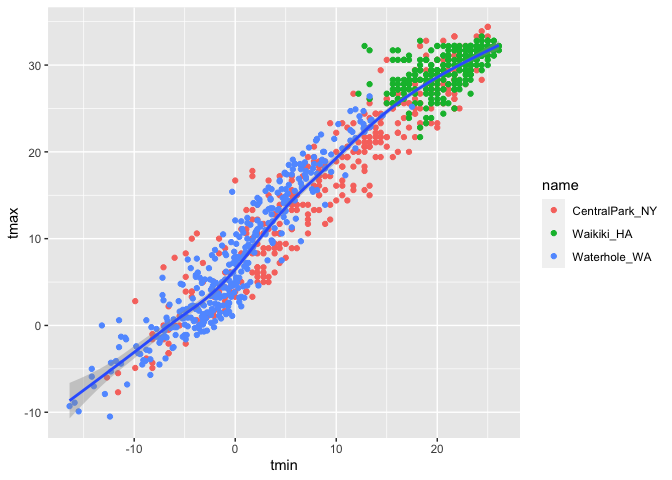
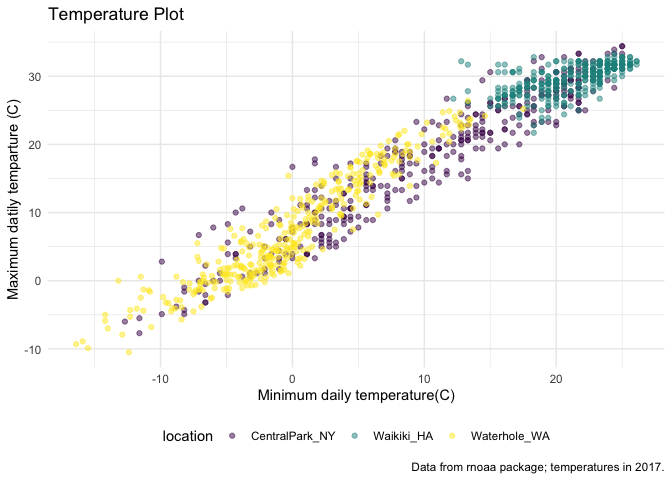
themes

diff --git a/Viz_I.md b/Viz_I.md
@@ -5,14 +5,14 @@ Visualization II
 library(tidyverse)
 ```
 
-    ## ── Attaching packages ───────────────── tidyverse 1.3.0 ──
+    ## ── Attaching packages ────────────────────────── tidyverse 1.3.0 ──
 
     ## ✓ ggplot2 3.3.2     ✓ purrr   0.3.4
     ## ✓ tibble  3.0.3     ✓ dplyr   1.0.2
     ## ✓ tidyr   1.1.2     ✓ stringr 1.4.0
     ## ✓ readr   1.3.1     ✓ forcats 0.5.0
 
-    ## ── Conflicts ──────────────────── tidyverse_conflicts() ──
+    ## ── Conflicts ───────────────────────────── tidyverse_conflicts() ──
     ## x dplyr::filter() masks stats::filter()
     ## x dplyr::lag()    masks stats::lag()
 
@@ -158,3 +158,28 @@ weather_df %>%
     ## Warning: Removed 15 rows containing missing values (geom_point).
 
 ![](Viz_I_files/figure-gfm/unnamed-chunk-6-1.png)<!-- -->
+
+## Themes
+
+Shift the legend.
+
+``` r
+weather_df %>% 
+    ggplot(aes(x = tmin, y = tmax, color=name)) +
+    geom_point(alpha=0.5) +
+    labs(
+        title = "Temperature Plot",
+        x= "Minimum daily temperature(C)",
+        y = "Maximum datily temparture (C)",
+        caption = "Data from rnoaa package; temperatures in 2017."
+    ) +
+ viridis::scale_colour_viridis(
+   name = "location",
+    discrete = TRUE) +
+  theme_minimal() +
+  theme(legend.position =  "bottom")
+```
+
+    ## Warning: Removed 15 rows containing missing values (geom_point).
+
+![](Viz_I_files/figure-gfm/unnamed-chunk-7-1.png)<!-- -->
